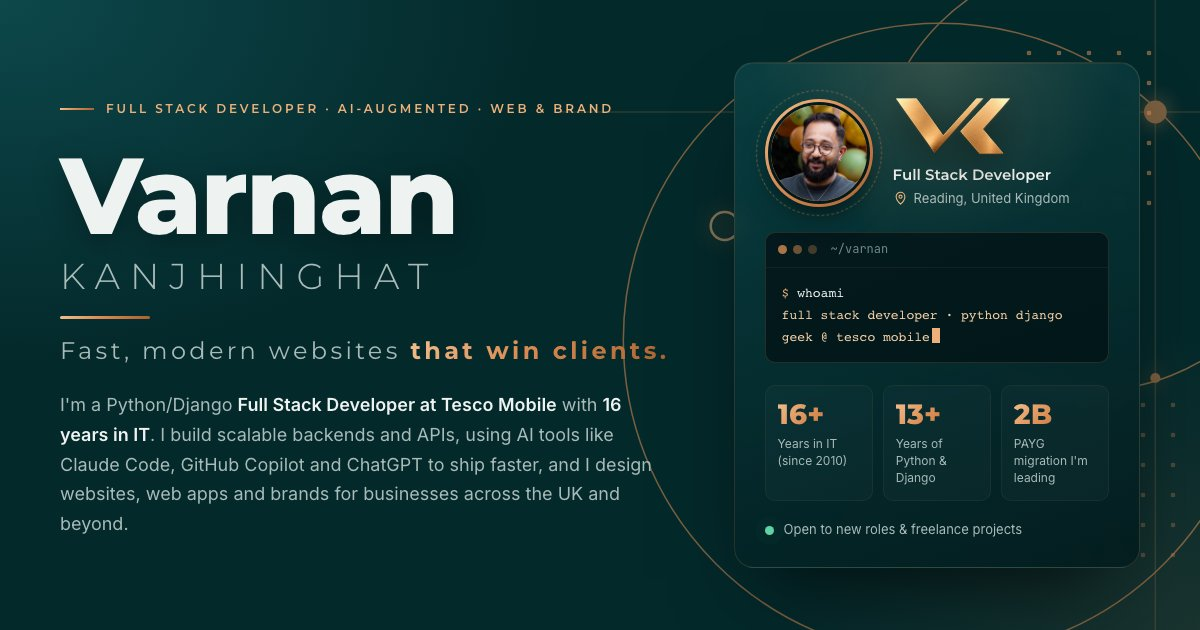
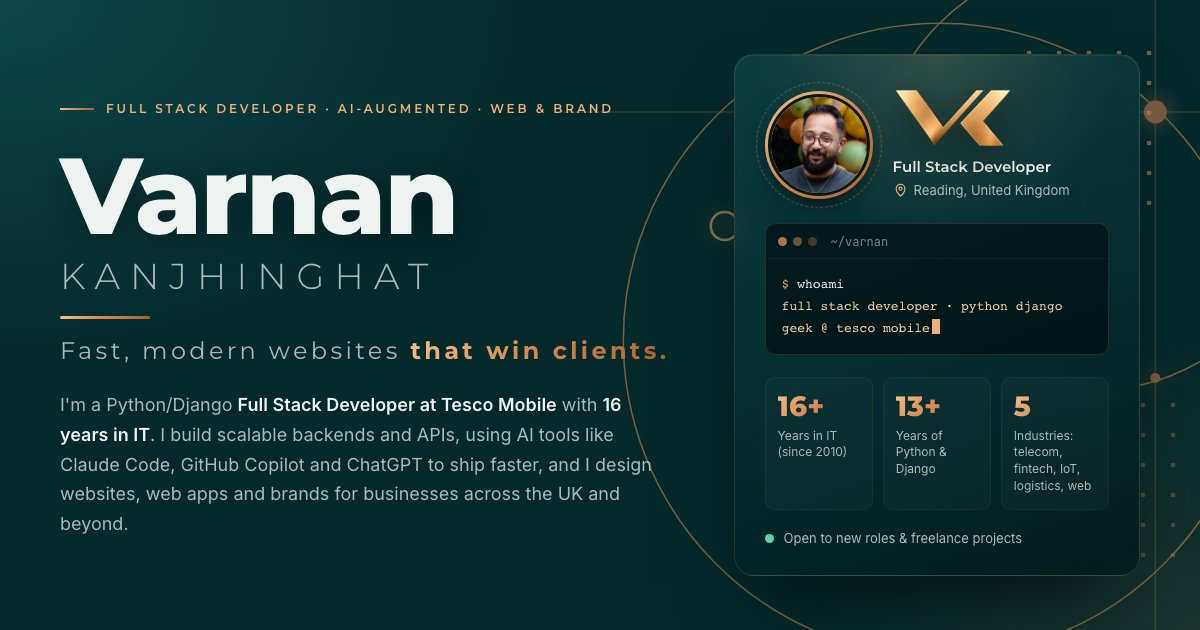
Describe current role in general terms

diff --git a/index.html b/index.html
@@ -8,7 +8,7 @@
   <!-- ===== Primary SEO ===== -->
   <title>Varnan Kanjhinghat | Full Stack Python Django Developer &amp; Freelance Web Designer, Reading UK</title>
   <meta name="description" content="Varnan Kanjhinghat is a full stack Python/Django developer (SDE II) at Tesco Mobile with 16 years in IT, and a freelance web designer in Reading, UK. He builds websites, web apps, REST APIs, cloud deployments and brand identities.">
-  <meta name="keywords" content="Varnan Kanjhinghat, Varnan K Nair, full stack developer UK, full stack developer Reading, full stack Python developer, Python developer UK, Django developer Reading, senior Python developer, full stack developer Reading, backend developer UK, Django REST Framework developer, REST API developer, Docker Kubernetes developer, software developer Tesco Mobile, OCS CCS migration, telecom charging systems, BFSI software developer, fintech Django developer, IoT backend developer, freelance web designer Reading, freelance web developer Berkshire, website design London, small business website UK, static website developer, dynamic website development, website hosting and domain setup, business email setup, SEO services Reading, logo design, visiting card design, business card design, letterhead design, brand identity design, AI-assisted development, AI-augmented software engineer, generative AI tools, GitHub Copilot, Claude Code, ChatGPT, OpenAI Codex, Tabnine, Microsoft Copilot, prompt engineering, LLM tools for developers, machine learning data preparation, Pandas DataFrames, big data processing, AI predictions IoT, predictive analytics, AI IoT backend, microservices APIs, CI/CD pipelines, test-driven development, agile software engineer, technical lead Python">
+  <meta name="keywords" content="Varnan Kanjhinghat, Varnan K Nair, full stack developer UK, full stack developer Reading, full stack Python developer, Python developer UK, Django developer Reading, senior Python developer, full stack developer Reading, backend developer UK, Django REST Framework developer, REST API developer, Docker Kubernetes developer, software developer Tesco Mobile, telecom software developer, BFSI software developer, fintech Django developer, IoT backend developer, freelance web designer Reading, freelance web developer Berkshire, website design London, small business website UK, static website developer, dynamic website development, website hosting and domain setup, business email setup, SEO services Reading, logo design, visiting card design, business card design, letterhead design, brand identity design, AI-assisted development, AI-augmented software engineer, generative AI tools, GitHub Copilot, Claude Code, ChatGPT, OpenAI Codex, Tabnine, Microsoft Copilot, prompt engineering, LLM tools for developers, machine learning data preparation, Pandas DataFrames, big data processing, AI predictions IoT, predictive analytics, AI IoT backend, microservices APIs, CI/CD pipelines, test-driven development, agile software engineer, technical lead Python">
   <meta name="author" content="Varnan Kanjhinghat">
   <meta name="robots" content="index, follow, max-image-preview:large">
   <meta name="theme-color" content="#04292b">
@@ -84,7 +84,7 @@
           "occupationLocation": { "@type": "City", "name": "Reading" },
           "skills": "Python, Django, Django REST Framework, REST APIs, Docker, Kubernetes, PostgreSQL, AWS, Azure, unit testing, CI/CD, AI-assisted development (GitHub Copilot, Claude Code, ChatGPT/Codex, Tabnine, Microsoft Copilot), prompt engineering, ML data preparation with Pandas, big data, web design, SEO, branding"
         },
-        "knowsAbout": ["Python", "Django", "Django REST Framework", "REST API design", "Docker", "Kubernetes", "PostgreSQL", "MySQL", "MongoDB", "Redis", "Celery", "RabbitMQ", "MQTT", "AWS", "Azure", "Nginx", "CI/CD", "Unit testing", "Telecom charging systems", "OCS to CCS migration", "BFSI software", "IoT", "Web design", "Responsive web development", "SEO", "Logo design", "Brand identity", "AI-assisted software development", "Generative AI tools", "GitHub Copilot", "Claude Code", "ChatGPT", "OpenAI Codex", "Tabnine", "Microsoft Copilot", "Prompt engineering", "Machine learning data preparation", "Pandas", "Big data processing", "AI predictions for IoT devices", "Canva"],
+        "knowsAbout": ["Python", "Django", "Django REST Framework", "REST API design", "Docker", "Kubernetes", "PostgreSQL", "MySQL", "MongoDB", "Redis", "Celery", "RabbitMQ", "MQTT", "AWS", "Azure", "Nginx", "CI/CD", "Unit testing", "Telecom platforms", "BFSI software", "IoT", "Web design", "Responsive web development", "SEO", "Logo design", "Brand identity", "AI-assisted software development", "Generative AI tools", "GitHub Copilot", "Claude Code", "ChatGPT", "OpenAI Codex", "Tabnine", "Microsoft Copilot", "Prompt engineering", "Machine learning data preparation", "Pandas", "Big data processing", "AI predictions for IoT devices", "Canva"],
         "sameAs": [
           "https://in.linkedin.com/in/varnan",
           "https://github.com/Varnan",
@@ -231,7 +231,7 @@
         <dl class="stats">
           <div><dt><span data-count="16">0</span>+</dt><dd>Years in IT (since 2010)</dd></div>
           <div><dt><span data-count="13">0</span>+</dt><dd>Years of Python &amp; Django</dd></div>
-          <div><dt><span data-count="2">0</span>B</dt><dd>PAYG migration I'm leading</dd></div>
+          <div><dt><span data-count="5">0</span></dt><dd>Industries: telecom, fintech, IoT, logistics, web</dd></div>
         </dl>
         <p class="avail"><span class="pulse"></span> Open to new roles &amp; freelance projects</p>
       </aside>
@@ -270,11 +270,11 @@
             <span class="num">01 · Project · Current role</span>
             <h3>Tesco Mobile</h3>
             <p class="role-line">Full Stack Developer (SDE II) · Permanent · Oct 2023 to present</p>
-            <p>I'm developing Tesco Mobile's <strong>Offer Manager</strong> software, and I lead the <strong>OCS → CCS migration</strong>. That programme moves every pay-as-you-go customer from the legacy Online Charging System to a new Converged Charging System, to meet UK telecoms security legislation on removing high-risk vendor dependencies.</p>
+            <p>I build and maintain Python/Django backend services and REST APIs for <strong>business-critical telecom platforms</strong>, and I lead a <strong>large-scale platform migration</strong>. Day to day that means containerised delivery with Docker and Kubernetes, backed by linting, unit testing and code review.</p>
             <dl class="mini-stats">
-              <div><dt>2B</dt><dd>PAYG migration scale</dd></div>
-              <div><dt>Lead</dt><dd>OCS → CCS</dd></div>
-              <div><dt>Build</dt><dd>Offer Manager</dd></div>
+              <div><dt>Lead</dt><dd>Large-scale migration</dd></div>
+              <div><dt>Build</dt><dd>Backend services &amp; APIs</dd></div>
+              <div><dt>Ship</dt><dd>Docker &amp; Kubernetes</dd></div>
             </dl>
             <ul class="tags"><li>Python</li><li>Django</li><li>REST APIs</li><li>Docker</li><li>Kubernetes</li><li>Unit testing</li><li>Linting</li></ul>
             <a class="link" href="https://www.tescomobile.com/" target="_blank" rel="noopener">Visit tescomobile.com <svg><use href="#i-arrow"/></svg></a>
@@ -527,7 +527,7 @@
           <div><dt>Data &amp; messaging</dt><dd><span>PostgreSQL</span><span>MySQL</span><span>SQL Server</span><span>MongoDB</span><span>Redis</span><span>RabbitMQ</span><span>MQTT</span><span>Pandas / DataFrames</span><span>Big data</span></dd></div>
           <div><dt>AI &amp; productivity</dt><dd><span>AI-assisted development</span><span>Generative AI</span><span>GitHub Copilot</span><span>Claude Code</span><span>ChatGPT</span><span>OpenAI Codex</span><span>Tabnine</span><span>Microsoft Copilot</span><span>Prompt engineering</span><span>ML training data</span><span>AI predictions</span></dd></div>
           <div><dt>Quality &amp; delivery</dt><dd><span>Unit testing</span><span>Linting</span><span>Code review</span><span>Sentry</span><span>Agile / Scrum</span><span>Jira</span><span>Git</span><span>Technical leadership</span><span>Mentoring</span></dd></div>
-          <div><dt>Domains</dt><dd><span>Telecom (OCS / CCS charging)</span><span>Offer management</span><span>BFSI / FinTech</span><span>InsurTech</span><span>IoT</span><span>Logistics</span><span>Web &amp; e-commerce</span></dd></div>
+          <div><dt>Domains</dt><dd><span>Telecom</span><span>BFSI / FinTech</span><span>InsurTech</span><span>IoT</span><span>Logistics</span><span>Web &amp; e-commerce</span></dd></div>
           <div><dt>Design &amp; web</dt><dd><span>Web design</span><span>Responsive design</span><span>SEO</span><span>Canva</span><span>Logo design</span><span>Visiting cards</span><span>Letterheads</span><span>Brand identity</span></dd></div>
         </dl>
       </div>
@@ -592,8 +592,8 @@
             <h3>Full Stack Developer · SDE II</h3>
             <p class="org">Tesco Mobile · United Kingdom</p>
             <ul>
-              <li>Developing Tesco Mobile's Offer Manager software.</li>
-              <li>Leading the OCS → CCS charging migration for all pay-as-you-go customers, driven by UK telecoms security legislation.</li>
+              <li>Building and maintaining backend services and REST APIs for business-critical telecom platforms.</li>
+              <li>Leading a large-scale platform migration, from planning through to delivery.</li>
               <li>Python/Django backend and API development, Docker and Kubernetes, linting and unit testing.</li>
             </ul>
           </div>
@@ -666,7 +666,7 @@
       <div class="about-copy">
         <p class="eyebrow">About</p>
         <h2>Engineer by trade, <em>designer at heart.</em></h2>
-        <p>I'm Varnan, a full stack developer based in Reading, UK, and I've worked in IT since 2010. For more than a decade I've built Python/Django systems that have to work at scale: IoT sleep monitors, logistics networks, mutual fund and insurance platforms, and now the charging and offer platforms behind Tesco Mobile's pay-as-you-go customers.</p>
+        <p>I'm Varnan, a full stack developer based in Reading, UK, and I've worked in IT since 2010. For more than a decade I've built Python/Django systems that have to work at scale: IoT sleep monitors, logistics networks, mutual fund and insurance platforms, and now business-critical telecom platforms at Tesco Mobile.</p>
         <p>I also enjoy the visual side. I design and build websites and brand identities for small businesses, communities and consultancies, and I bring the same engineering care to them: clean code, proper hosting, good SEO and a design that fits the brand.</p>
         <div class="about-grid">
           <div><h4>Education</h4><p>Diploma in Computer Engineering<br><span>Govt. Polytechnic College, Chelakkara, Kerala · 2007 to 2010</span></p></div>
@@ -701,7 +701,7 @@
         <article class="aud reveal">
           <span class="aud-tag">For hiring teams</span>
           <h3>Senior Python / Django &amp; full-stack roles</h3>
-          <p>16 years in IT and 13+ in Python and Django, with experience leading large-scale telecom migrations, BFSI platforms and AI-powered IoT backends. I use AI tools every day, including Claude Code, GitHub Copilot and ChatGPT. UK-based in Reading, and open to hybrid or remote.</p>
+          <p>16 years in IT and 13+ in Python and Django, with experience leading large-scale platform migrations in telecom, BFSI platforms and AI-powered IoT backends. I use AI tools every day, including Claude Code, GitHub Copilot and ChatGPT. UK-based in Reading, and open to hybrid or remote.</p>
           <a class="link" href="https://in.linkedin.com/in/varnan" target="_blank" rel="noopener">View LinkedIn profile <svg><use href="#i-arrow"/></svg></a>
         </article>
         <article class="aud reveal">

diff --git a/assets/js/main.js b/assets/js/main.js
@@ -189,7 +189,7 @@
   };
   // [symbol, name, category, level 0-100, note, core?]
   const SKILLS = [
-    ['Py', 'Python', 'backend', 96, 'My primary language since 2013. Used at Tesco Mobile (Offer Manager, OCS → CCS), Kuliza, Raybaby, Shadowfax, Cognalys and Inzane.', 1],
+    ['Py', 'Python', 'backend', 96, 'My primary language since 2013. Used at Tesco Mobile, Kuliza, Raybaby, Shadowfax, Cognalys and Inzane.', 1],
     ['Dj', 'Django', 'backend', 96, 'Production Django for 13+ years: telecom at Tesco Mobile, BFSI (UTI Mutual Fund, Bharti AXA Life), IoT and logistics.', 1],
     ['Rf', 'Django REST', 'backend', 92, 'API-first backends with Django REST Framework, serving mobile apps, devices and partner integrations.', 1],
     ['Ap', 'REST APIs', 'backend', 94, 'API design and architecture for high-traffic systems, including real-time reporting APIs at Cognalys.', 1],
@@ -197,8 +197,6 @@
     ['Rd', 'Redis', 'backend', 84, 'Caching, queues and pub/sub for IoT and logistics workloads.'],
     ['Rq', 'RabbitMQ', 'backend', 72, 'Message brokering for distributed task processing.'],
     ['Mq', 'MQTT', 'backend', 82, 'Configured and coded the MQTT server layer for Raybaby device connectivity.'],
-    ['Oc', 'OCS / CCS', 'backend', 85, 'Telecom online and converged charging systems. I lead the Tesco Mobile PAYG migration from OCS to CCS.', 1],
-    ['Om', 'Offer Manager', 'backend', 85, 'Building Tesco Mobile\'s Offer Manager software in Python/Django.'],
     ['Co', 'GitHub Copilot', 'ai', 90, 'In-editor AI pair programming for Python/Django, APIs and tests.', 1],
     ['Cc', 'Claude Code', 'ai', 88, 'Agentic AI coding: multi-file refactors, test generation and codebase exploration.', 1],
     ['Gp', 'ChatGPT / Codex', 'ai', 88, 'Debugging, code generation, documentation and design reviews.'],
@@ -240,7 +238,7 @@
     ['Ui', 'UI design', 'design', 80, 'Clean, conversion-focused web interfaces.'],
     ['Gt', 'Git', 'ways', 92, 'Daily. Branching strategies, reviews and release flows.'],
     ['Ag', 'Agile / Jira', 'ways', 88, 'Scrum and Kanban delivery with Jira and Trello.'],
-    ['Ld', 'Tech leadership', 'ways', 88, 'Leading the OCS → CCS PAYG migration at Tesco Mobile. Previously led the Raybaby backend team.', 1],
+    ['Ld', 'Tech leadership', 'ways', 88, 'Leading a large-scale platform migration at Tesco Mobile. Previously led the Raybaby backend team.', 1],
   ];
 
   const table = $('#periodic');
